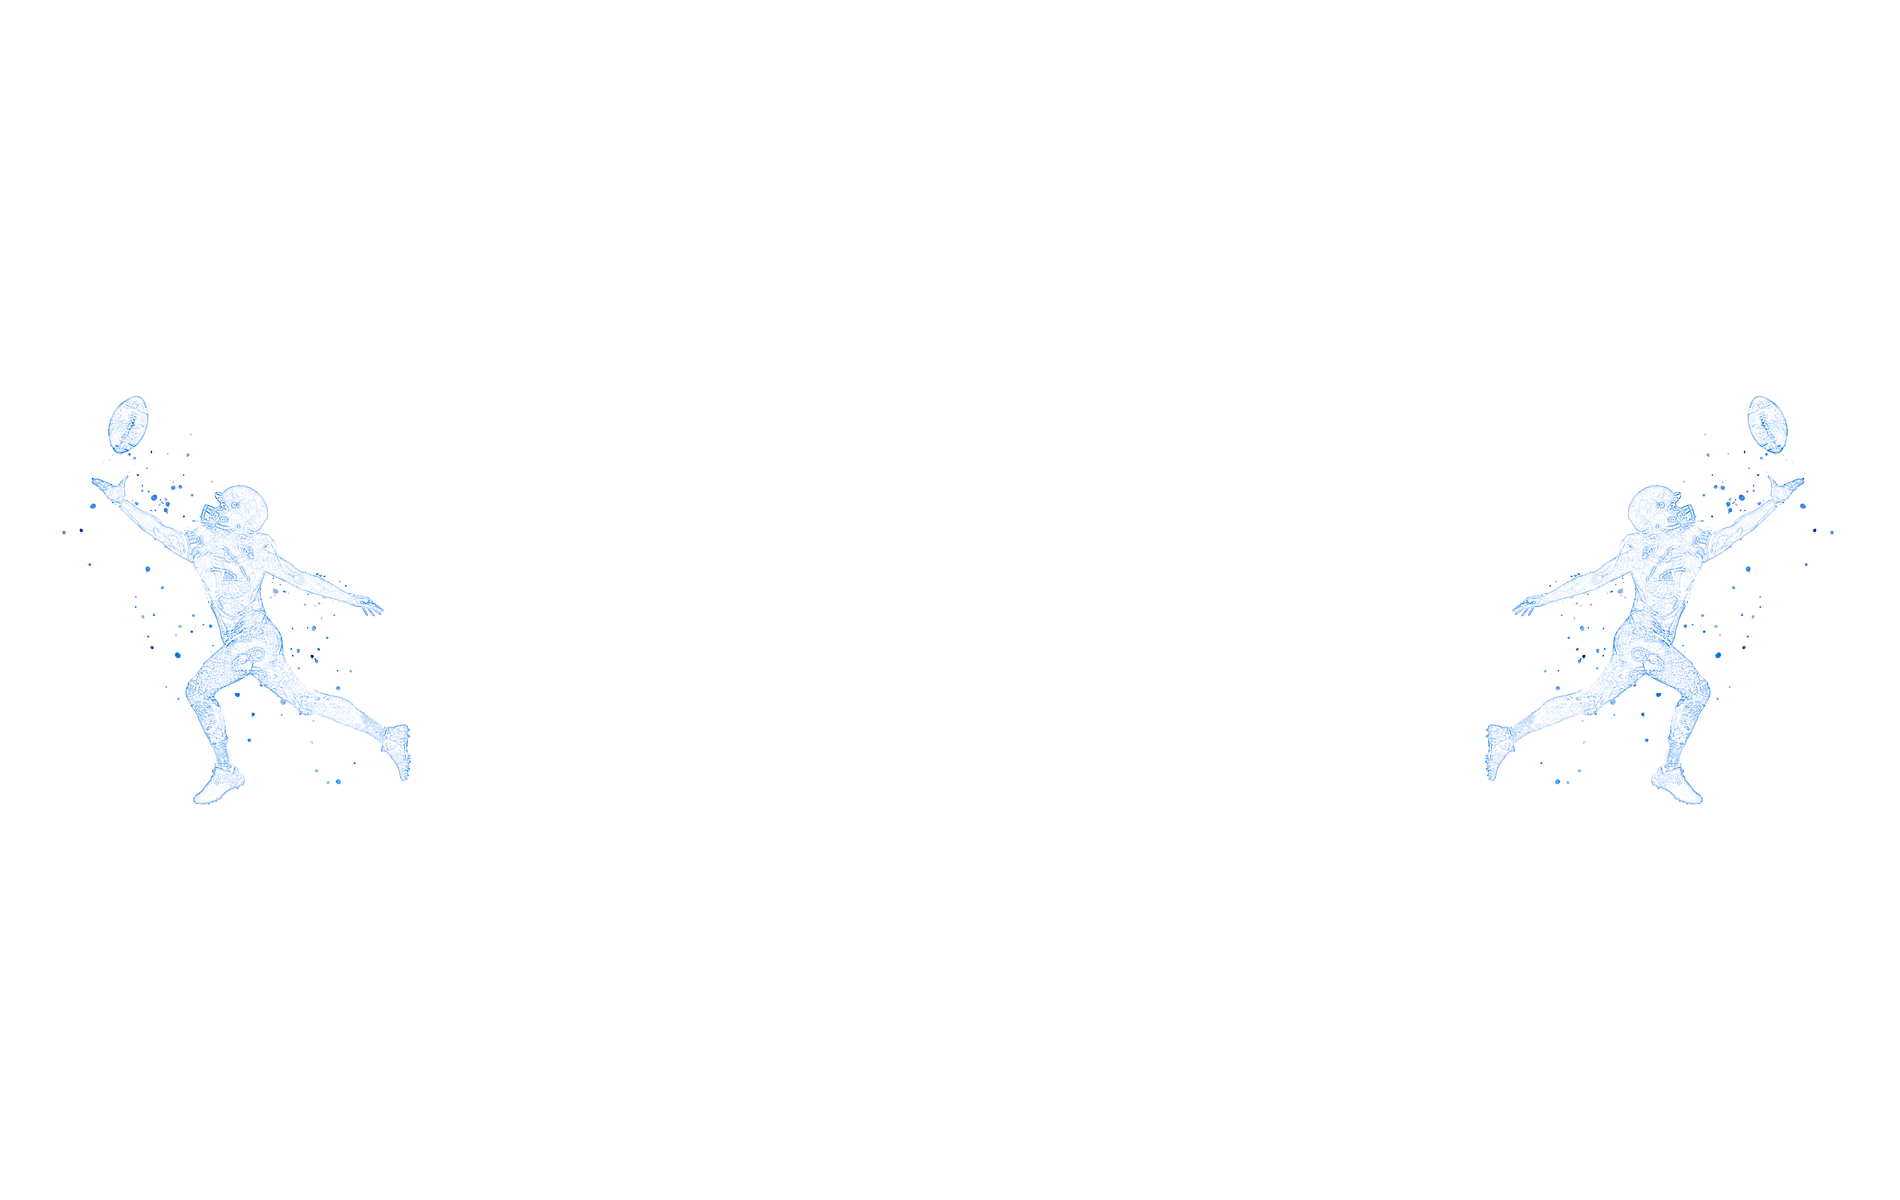
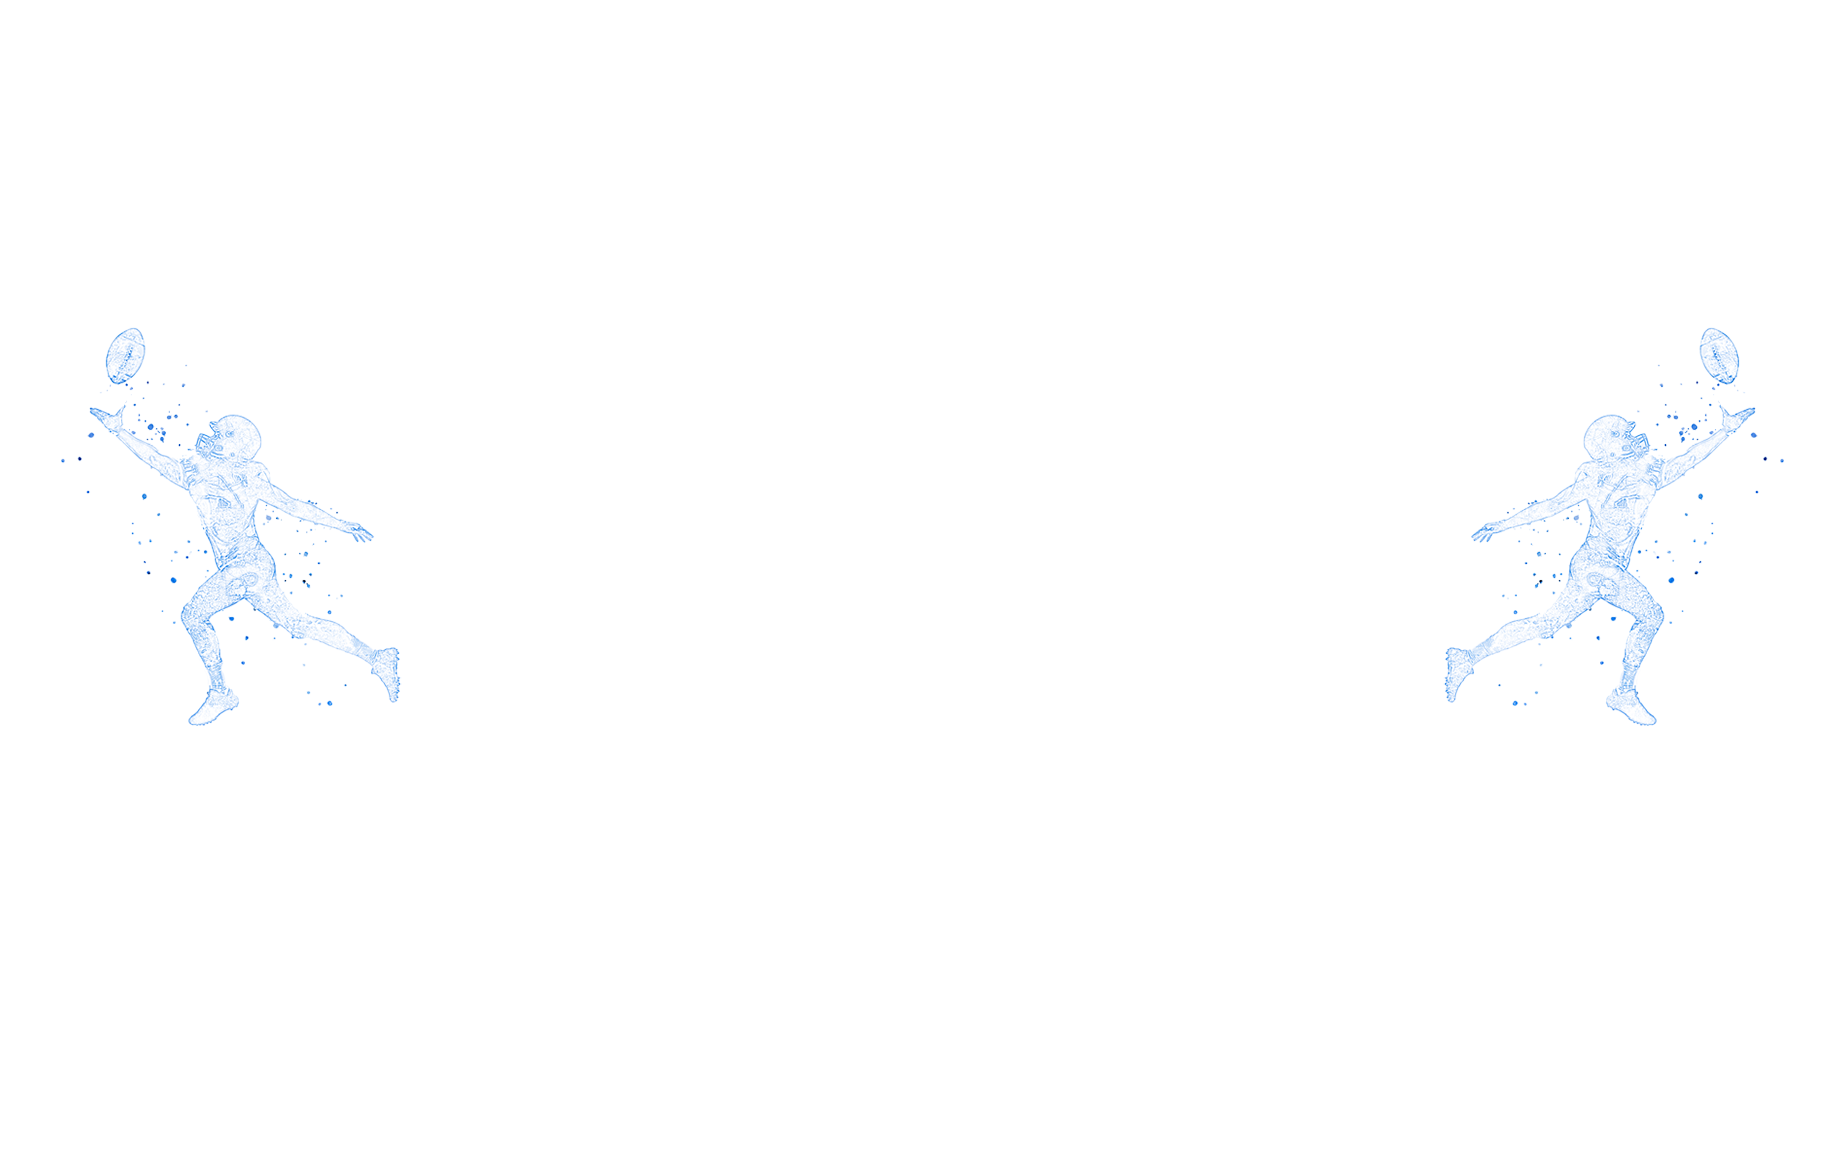
Update BG Images

Changed region(s): [[0.7711, 0.2776, 0.9562, 0.6787], [0.0308, 0.2776, 0.2159, 0.6787]]

diff --git a/public/styles/light-new.css b/public/styles/light-new.css
@@ -2233,8 +2233,8 @@ caption,
   font-size: 1.375rem;
   text-align: center;
   background-color: var(--accent, red);
-  -webkit-mask-image: url(https://knuckleheads.netlify.app/images/captions/Caption-Stipple.svg);
-  mask-image: url(https://knuckleheads.netlify.app/images/captions/Caption-Stipple.svg);
+  -webkit-mask-image: url(https://knuckleheads.netlify.app/images/captions/Caption-Dots.svg);
+  mask-image: url(https://knuckleheads.netlify.app/images/captions/Caption-Dots.svg);
   /*background: rgba(0, 0, 0, 0) url(https://knuckleheads.netlify.app/images/captions/Caption-Stipple.svg); /*none*/
   mask-position: right 0px top; /*added*/
   padding: 0.5rem 0.313rem;
